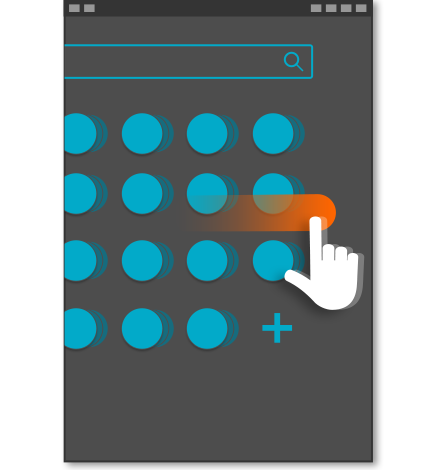
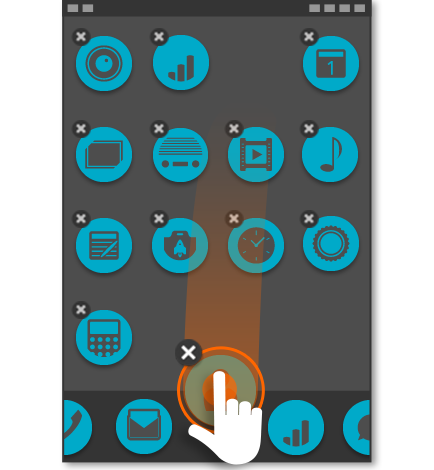
Bug 901041 - Remove 'swipe left' screen in tutorial (as part of the first run experience)

diff --git a/apps/communications/ftu/js/tutorial.js b/apps/communications/ftu/js/tutorial.js
@@ -8,25 +8,22 @@ var tutorialSteps = {
     key: 'tutorial-step1',
     image: 'css/images/tutorial/1.png'
   },
+  // On bug 901041 we erased the real second step, but didn't change the strings
+  // To be solved on bug 902487
   2: {
     hash: '#step2',
-    key: 'tutorial-step2',
+    key: 'tutorial-step3',
     image: 'css/images/tutorial/2.png'
   },
   3: {
     hash: '#step3',
-    key: 'tutorial-step3',
+    key: 'tutorial-step4',
     image: 'css/images/tutorial/3.png'
   },
   4: {
     hash: '#step4',
-    key: 'tutorial-step4',
-    image: 'css/images/tutorial/4.png'
-  },
-  5: {
-    hash: '#step5',
     key: 'tutorial-step5',
-    image: 'css/images/tutorial/5.png'
+    image: 'css/images/tutorial/4.png'
   }
 };
 

diff --git a/apps/communications/ftu/css/style.css b/apps/communications/ftu/css/style.css
@@ -1139,7 +1139,7 @@ i.hack-first-child {
 }
 
 #tutorial-screen .step-state:before {
-  width: calc(100% / 5);
+  width: calc(100% / 4);
   background: #FFFFFF;
 }
 
